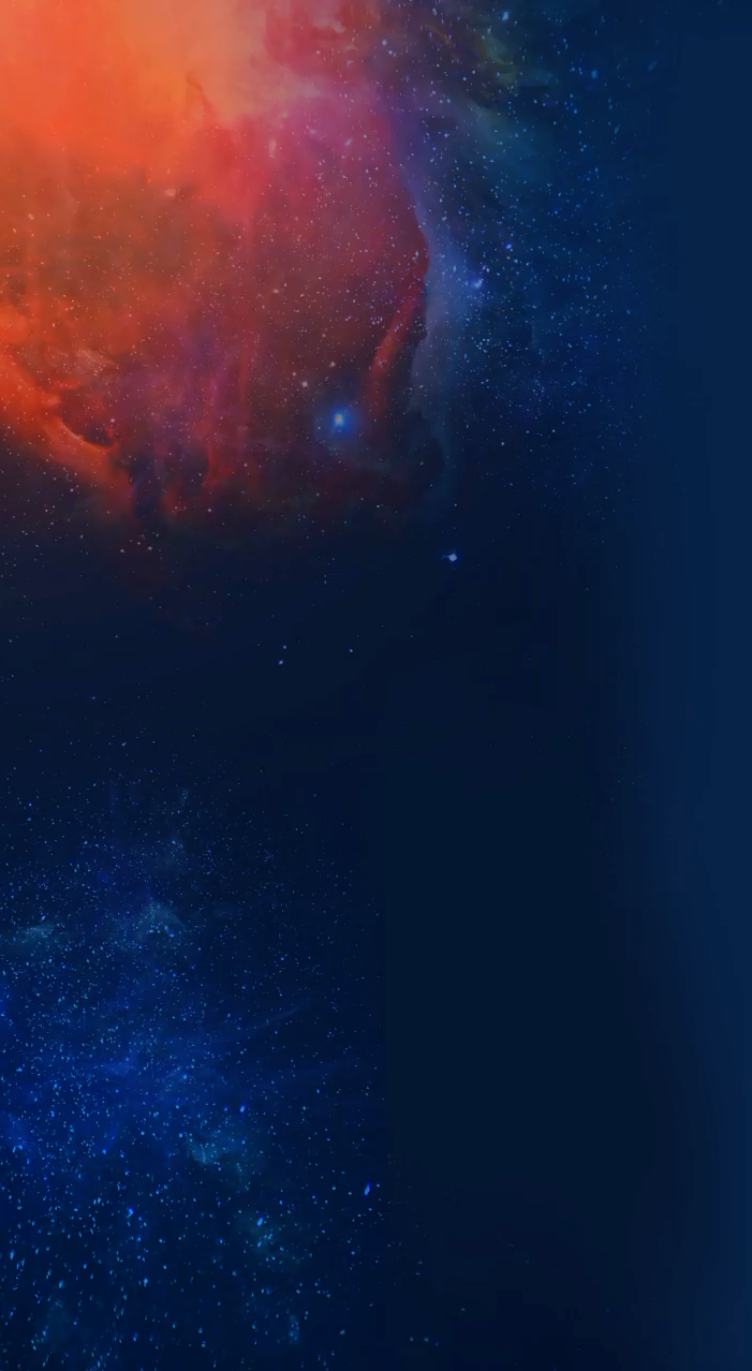
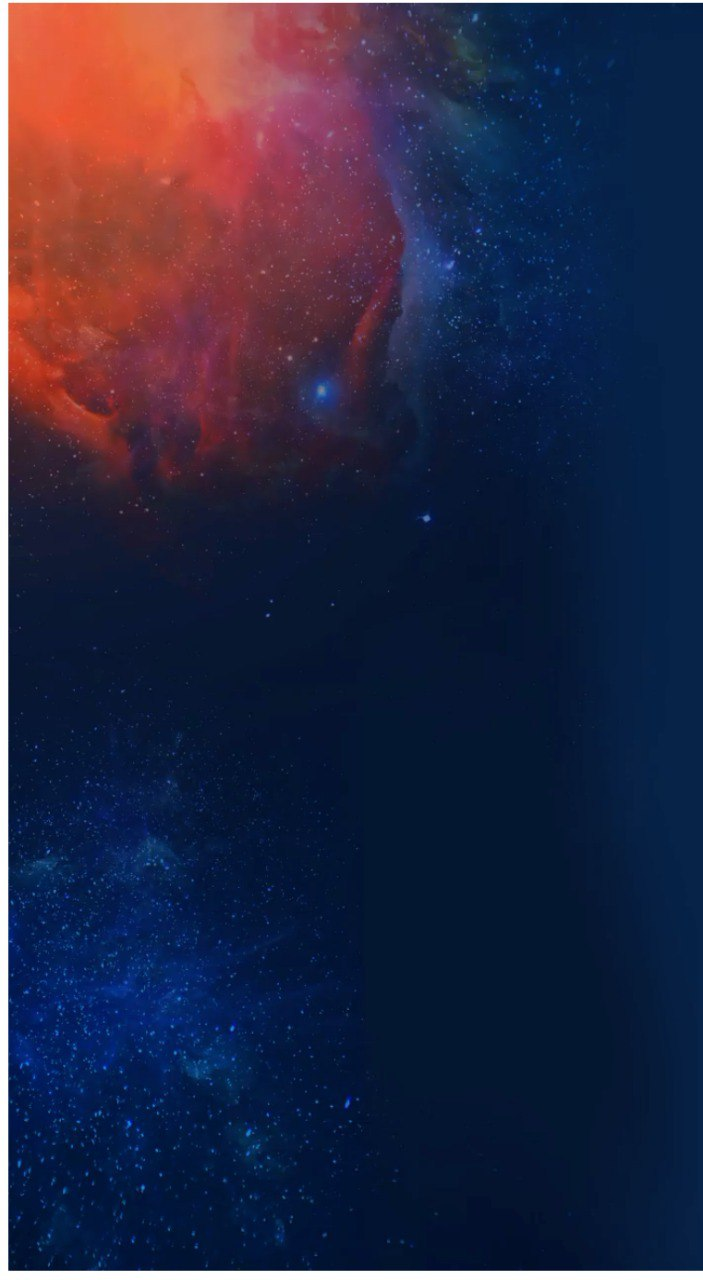
feat: background in all screens

diff --git a/src/screens/StepOne.jsx b/src/screens/StepOne.jsx
@@ -1,5 +1,11 @@
 import React, { useState, useEffect } from 'react';
-import { View, StyleSheet, Image, ScrollView } from 'react-native';
+import {
+  View,
+  StyleSheet,
+  Image,
+  ScrollView,
+  ImageBackground,
+} from 'react-native';
 //Custom components
 import Atomic from '../components/atoms/Atomic';
 import ProgressBar from '../components/atoms/ProgressBar';
@@ -15,6 +21,7 @@ const StepOne = ({ navigation }) => {
   const [apellido, setApellido] = useState();
   const [disabled, setDisabled] = useState(true);
   const [namev, setNamev] = useState(false);
+  const [apellidov, setApellidov] = useState(false);
   //Validation function
   useEffect(() => {
     if (nombre) {
@@ -22,7 +29,13 @@ const StepOne = ({ navigation }) => {
         setNamev(false);
         setDisabled(true);
         if (apellido) {
-          setDisabled(false);
+          if(apellido.length >= 5){
+            setApellidov(false);
+            setDisabled(false);
+          }else{
+            setApellidov(true);
+            setDisabled(true);
+          }
         }
       } else {
         setNamev(true);
@@ -32,38 +45,45 @@ const StepOne = ({ navigation }) => {
   }, [nombre, apellido]);
   return (
     <ScrollView style={styles.container}>
-      {/* Header */}
-      <View style={styles.header1}>
-        <Atomic />
-        <ProgressBar step={1} />
-        <Step step={1} t1="TE QUEREMOS" t2="CONOCER" />
-      </View>
-      <CustomText text="Queremos saber que eres tú, por favor ingresa los siguientes datos:" />
-      {/* Inputs */}
-      <InputContainer
-        name="Nombre (s)"
-        value={nombre}
-        onChangeText={(a) => setNombre(a)}
-        validation={namev}
-        textValidation="El nombre deberá tener minimo 5 caracteres"
-      />
-      <InputContainer
-        name="Apellidos"
-        value={apellido}
-        onChangeText={(a) => setApellido(a)}
-      />
-      {/* Button to send data */}
-      <SendButton
-        text="Enviar"
-        disabled={disabled}
-        onPress={() => {
-          navigation.navigate('StepTwo', {
-            nombre: nombre,
-            apellidos: apellido,
-          });
-        }}
-      />
-      <Image source={require('../assets/PaqueteAtomic/Group4033.png')} />
+      <ImageBackground
+        source={require('../assets/PaqueteAtomic/fondo3.png')}
+        resizeMode="cover"
+      >
+        {/* Header */}
+        <View style={styles.header1}>
+          <Atomic />
+          <ProgressBar step={1} />
+          <Step step={1} t1="TE QUEREMOS" t2="CONOCER" />
+        </View>
+        <CustomText text="Queremos saber que eres tú, por favor ingresa los siguientes datos:" />
+        {/* Inputs */}
+        <InputContainer
+          name="Nombre (s)"
+          value={nombre}
+          onChangeText={(a) => setNombre(a)}
+          validation={namev}
+          textValidation="El nombre deberá tener minimo 5 caracteres"
+        />
+        <InputContainer
+          name="Apellidos"
+          value={apellido}
+          onChangeText={(a) => setApellido(a)}
+          validation={apellidov}
+          textValidation="El apellido deberá tener minimo 5 caracteres"
+        />
+        {/* Button to send data */}
+        <SendButton
+          text="Enviar"
+          disabled={disabled}
+          onPress={() => {
+            navigation.navigate('StepTwo', {
+              nombre: nombre,
+              apellidos: apellido,
+            });
+          }}
+        />
+        <Image source={require('../assets/PaqueteAtomic/Group4033.png')} />
+      </ImageBackground>
       <Footer />
     </ScrollView>
   );

diff --git a/src/screens/StepTwo.jsx b/src/screens/StepTwo.jsx
@@ -1,5 +1,11 @@
 import React, { useState, useEffect } from 'react';
-import { ScrollView, View, Image, StyleSheet } from 'react-native';
+import {
+  ScrollView,
+  View,
+  Image,
+  StyleSheet,
+  ImageBackground,
+} from 'react-native';
 import Atomic from '../components/atoms/Atomic';
 import ProgressBar from '../components/atoms/ProgressBar';
 import Step from '../components/atoms/Step';
@@ -30,33 +36,39 @@ const StepTwo = ({ route, navigation }) => {
   }, [number]);
   return (
     <ScrollView style={styles.container}>
-      {/* Header */}
-      <View style={styles.header1}>
-        <Atomic />
-        <ProgressBar step={2} />
-        <Step step={2} t1="VALIDA TU" t2="CELULAR" />
-      </View>
-      <CustomText text="Necesitamos validar tu número para continuar" />
-      <CustomText text="Ingresa tu número a 10 digitos y te enviaremos un código SMS." />
-      {/* Input */}
-      <InputContainer
-        name="Número de Celular"
-        value={number}
-        onChangeText={(a) => setNumber(a)}
-        keyboardType="number"
-        validation={validation}
-        textValidation="Ingresa un número de 10 digitos"
-      />
-      {/* Button to send data to the endpoint */}
-      <SendButton
-        text="Continuar"
-        disabled={disabled}
-        onPress={() => sendData(nombre, apellidos, navigation, number)}
-      />
-      <Image
-        style={styles.image}
-        source={require('../assets/PaqueteAtomic/Group4034.png')}
-      />
+      <ImageBackground
+        source={require('../assets/PaqueteAtomic/fondo4.png')}
+        resizeMode="cover"
+      >
+        {/* Header */}
+        <View style={styles.header1}>
+          <Atomic />
+          <ProgressBar step={2} />
+          <Step step={2} t1="VALIDA TU" t2="CELULAR" />
+        </View>
+        <CustomText text="Necesitamos validar tu número para continuar" />
+        <CustomText text="Ingresa tu número a 10 digitos y te enviaremos un código SMS." />
+        {/* Input */}
+        <InputContainer
+          name="Número de Celular"
+          value={number}
+          onChangeText={(a) => setNumber(a)}
+          keyboardType="numeric"
+          validation={validation}
+          textValidation="Ingresa un número de 10 digitos"
+          maxLength={10}
+        />
+        {/* Button to send data to the endpoint */}
+        <SendButton
+          text="Continuar"
+          disabled={disabled}
+          onPress={() => sendData(nombre, apellidos, navigation, number)}
+        />
+        <Image
+          style={styles.image}
+          source={require('../assets/PaqueteAtomic/Group4034.png')}
+        />
+      </ImageBackground>
       <Footer />
     </ScrollView>
   );

diff --git a/src/screens/SendData.jsx b/src/screens/SendData.jsx
@@ -1,5 +1,5 @@
 import React from 'react';
-import { Text, View, ScrollView, StyleSheet, Image } from 'react-native';
+import { Text, View, ScrollView, StyleSheet, Image, ImageBackground } from 'react-native';
 import Atomic from '../components/atoms/Atomic';
 import CustomText from '../components/atoms/CustomText';
 import Footer from '../components/atoms/Footer';
@@ -8,22 +8,27 @@ const SendData = () => {
   return (
     <ScrollView style={styles.container}>
       {/* Header */}
-      <View style={styles.header}>
-        <Atomic />
-        <Text style={styles.title}>
-          TUS DATOS{'\n'} HAN SIDO
-          <Text style={styles.orangeText}> ENVIADOS{'\n'} CON ÉXITO</Text>
-        </Text>
-      </View>
-      {/* Text to show info */}
-      <CustomText text="En breve recibirás un correo de confirmación por parte del equipo de AtomicLabs." />
-      <CustomText text="Recuerda revisar tu bandeja de SPAM ¡Esperamos verte pronto!" />
-      <Image
-        style={styles.image}
-        source={require('../assets/PaqueteAtomic/Group4039.png')}
-      />
-      {/* Footer */}
-      <Footer />
+      <ImageBackground
+        source={require('../assets/PaqueteAtomic/fondo4.png')}
+        resizeMode="cover"
+      >
+        <View style={styles.header}>
+          <Atomic />
+          <Text style={styles.title}>
+            TUS DATOS{'\n'} HAN SIDO
+            <Text style={styles.orangeText}> ENVIADOS{'\n'} CON ÉXITO</Text>
+          </Text>
+        </View>
+        {/* Text to show info */}
+        <CustomText text="En breve recibirás un correo de confirmación por parte del equipo de AtomicLabs." />
+        <CustomText text="Recuerda revisar tu bandeja de SPAM ¡Esperamos verte pronto!" />
+        <Image
+          style={styles.image}
+          source={require('../assets/PaqueteAtomic/Group4039.png')}
+        />
+        {/* Footer */}
+        <Footer />
+      </ImageBackground>
     </ScrollView>
   );
 };

diff --git a/src/screens/Home.jsx b/src/screens/Home.jsx
@@ -64,13 +64,9 @@ const Home = ({ navigation }) => {
   }, []);
 
   return (
-    <ScrollView
-      style={styles.container}
-      ref={setScroller}
-    >
-      <ImageBackground /* Background */
-        style={styles.container}
-        source={require('../assets/PaqueteAtomic/fondo.png')}
+    <ScrollView style={styles.container} ref={setScroller}>
+      <ImageBackground
+        source={require('../assets/PaqueteAtomic/fondo2.png')}
         resizeMode='cover'
       >
         {/* Header */}
@@ -123,8 +119,8 @@ const Home = ({ navigation }) => {
             <ActivityIndicator size="large" />
           )
         }
-        <Footer />
       </ImageBackground>
+      <Footer />
     </ScrollView>
   );
 };

diff --git a/src/components/atoms/InputContainer/index.jsx b/src/components/atoms/InputContainer/index.jsx
@@ -10,6 +10,7 @@ const InputContainer = (props) => {
     placeholder,
     onChangeText,
     keyboardType,
+    maxLength,
     value,
     secure,
     name,
@@ -29,6 +30,7 @@ const InputContainer = (props) => {
         onChangeText={onChangeText}
         keyboardType={keyboardType}
         value={value}
+        maxLength={maxLength}
       />
       {/* Clickable to hide text*/}
       <Pressable
